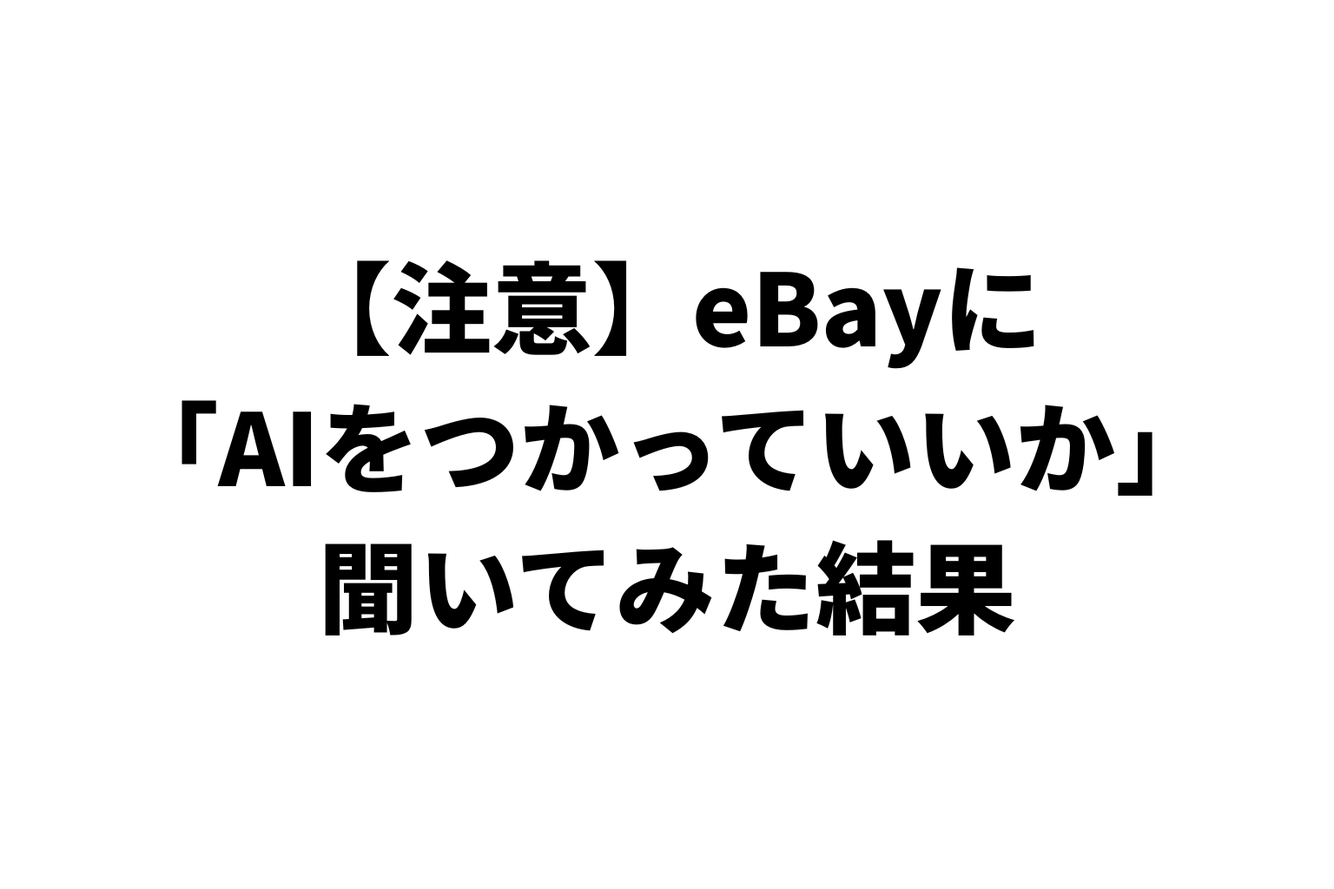
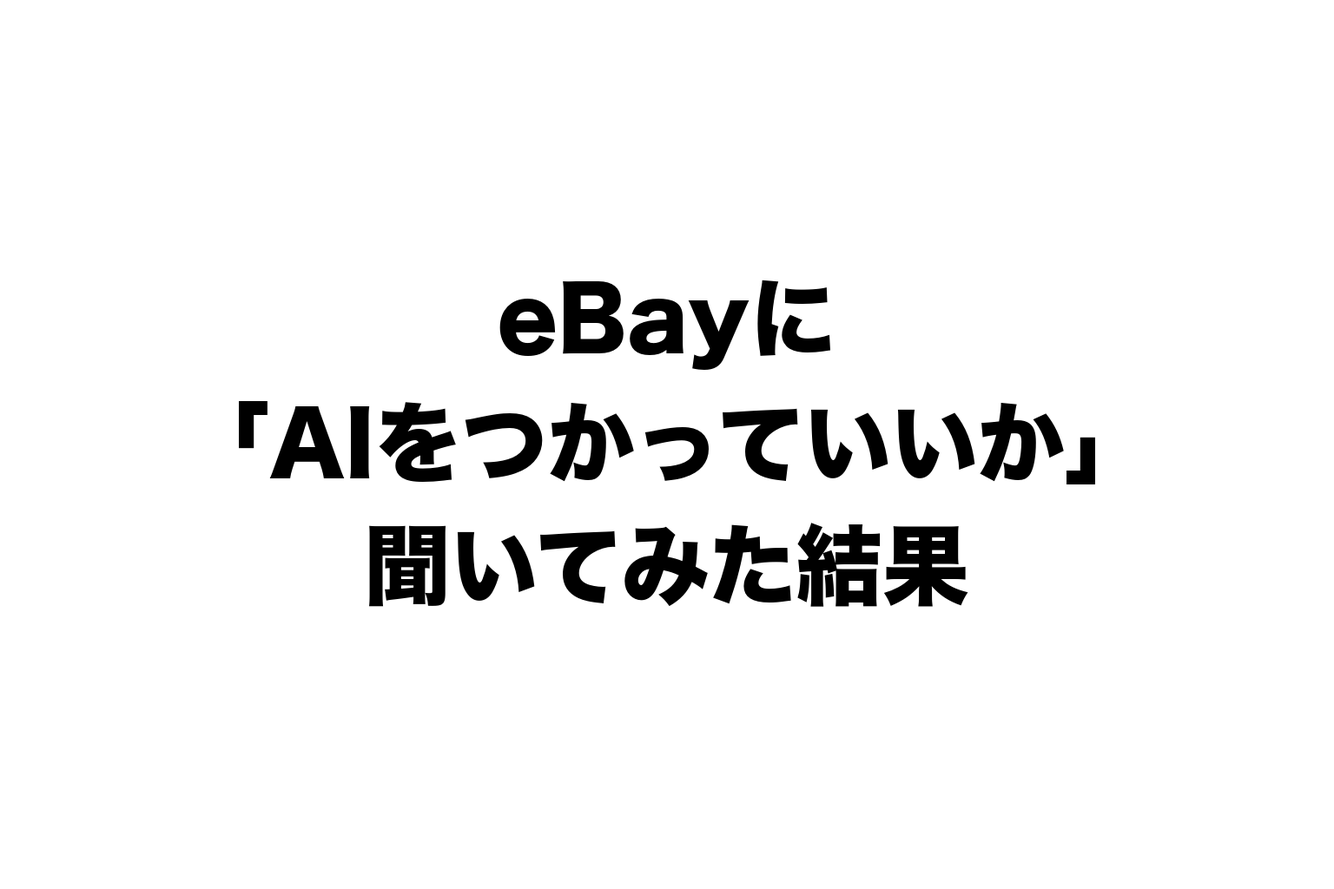
eBay AI permission article: drop 【注意】 from title and eyecatch

Changed region(s): [[0.125, 0.2812, 0.875, 0.5625], [0.2188, 0.5938, 0.7812, 0.7188]]

diff --git a/ebay/index.html b/ebay/index.html
@@ -107,7 +107,7 @@
   "hasPart": [
     {
       "@type": "Article",
-      "headline": "【注意】eBayに「AIを使っていいか」聞いてみた結果",
+      "headline": "eBayに「AIを使っていいか」聞いてみた結果",
       "url": "https://rental-space.net/articles/2026-10-08-ebay-ai-permission-answer.html",
       "datePublished": "2026-10-08"
     },
@@ -348,7 +348,7 @@
 <a href="../articles/2026-09-18-ebay-award-seller-description.html">▶ もとになった調査: eBay有力セラーの説明文を読んでみた結果</a></p></section>
                 <section id="clusters"><h2>テーマ別の入口</h2><section class="hub-cluster" id="c-start"><h3>始め方ガイド</h3><p class="hub-cluster-desc">アカウント、売るもの、リサーチ、出品、発送の5ステップ。英語は要りません。</p><div class="hub-cards"><article class="hub-card"><a href="../articles/2026-08-31-ebay-howto-beginners.html" class="hc-thumb"><img src="../assets/thumbs/2026_08_31_ebay_howto_eyecatch_20260831_640.webp" alt="eBayのやり方、初心者向けに解説" loading="lazy" width="640" height="427"></a><div class="hc-body"><time datetime="2026-08-31">2026.08.31</time><h4><a href="../articles/2026-08-31-ebay-howto-beginners.html">eBayのやり方、初心者向けに解説</a></h4><p>eBayのやり方を初心者向けに5ステップで解説。アカウント登録、商品選び、リサーチ、出品、発送の流れと、利益の考え方、AIとの分担をまとめま…</p></div></article><article class="hub-card"><a href="../articles/2026-08-30-ebay-beginner-five-tips.html" class="hc-thumb"><img src="../assets/thumbs/2026_08_30_ebay_beginner_five_eyecatch_20260830_640.webp" alt="はじめてeBay輸出をやりたい人に伝えたい5つのこと" loading="lazy" width="640" height="427"></a><div class="hc-body"><time datetime="2026-08-30">2026.08.30</time><h4><a href="../articles/2026-08-30-ebay-beginner-five-tips.html">はじめてeBay輸出をやりたい人に伝えたい5つのこと</a></h4><p>はじめてeBay輸出をやりたい兄弟へ、本気で伝える5つ。コンサルよりAI、作業の分担、小さなプラス、利益を守る梱包を、実体験からまとめました…</p></div></article><article class="hub-card"><a href="../articles/2026-08-27-ebay-english-no-problem.html" class="hc-thumb"><img src="../assets/thumbs/2026_08_27_ebay_english_eyecatch_5x2_20260827_640.webp" alt="英語ができないから、eBay輸出をあきらめていませんか" loading="lazy" width="640" height="427"></a><div class="hc-body"><time datetime="2026-08-27">2026.08.27</time><h4><a href="../articles/2026-08-27-ebay-english-no-problem.html">英語ができないから、eBay輸出をあきらめていませんか</a></h4><p>英語ができなくてもeBay輸出はできます。翻訳ボタン、文字ベースの顧客対応、AI社員の活用で英語の壁が消える理由を実例で解説します。</p></div></article></div><p class="hub-cluster-more"><a href="#all-start">このテーマの全7本を見る ↓</a></p></section><section class="hub-cluster" id="c-dropship"><h3>無在庫の仕組みとリスク</h3><p class="hub-cluster-desc">無在庫の仕組みと、在庫切れ・赤字・アカウント停止のリスクへの備え。</p><div class="hub-cards"><article class="hub-card"><a href="../articles/2026-08-15-ebay-ai-fullstack.html" class="hc-thumb"><img src="../assets/thumbs/2026_08_15_e1_640.webp" alt="梱包発送以外、ぜんぶAI。eBay無在庫販売の中身を全部話します" loading="lazy" width="640" height="427"></a><div class="hc-body"><time datetime="2026-08-15">2026.08.15</time><h4><a href="../articles/2026-08-15-ebay-ai-fullstack.html">梱包発送以外、ぜんぶAI。eBay無在庫販売の中身を全部話します</a></h4><p>ぼくはいま、eBayの無在庫販売を「梱包発送以外はぜんぶAI」でやっています。 リサーチも、出品も、値付けも、在庫管理も、顧客対応の下書きも…</p></div></article><article class="hub-card"><a href="../articles/2026-09-05-ebay-out-of-stock-button.html" class="hc-thumb"><img src="../assets/thumbs/2026_09_05_out_of_stock_eyecatch_20260905_640.webp" alt="「Out of stock」を押してはいけない" loading="lazy" width="640" height="427"></a><div class="hc-body"><time datetime="2026-09-05">2026.09.05</time><h4><a href="../articles/2026-09-05-ebay-out-of-stock-button.html">「Out of stock」を押してはいけない</a></h4><p>無在庫eBayで仕入元が在庫切れになり注文をキャンセルされたときの対応手順。代わりの品をさがす、買い手に二択を出す、買い手発のキャンセル依頼…</p></div></article><article class="hub-card"><a href="../articles/2026-08-17-ebay-ai-mistakes.html" class="hc-thumb"><img src="../assets/thumbs/2026_08_17_e1_640.webp" alt="AI任せのeBay無在庫で、3万円をドブに捨てた話" loading="lazy" width="640" height="427"></a><div class="hc-body"><time datetime="2026-08-17">2026.08.17</time><h4><a href="../articles/2026-08-17-ebay-ai-mistakes.html">AI任せのeBay無在庫で、3万円をドブに捨てた話</a></h4><p>7月、ぼくは3万円をドブに捨てました。 eBayの無在庫販売を「梱包発送以外ぜんぶAI」で始めて1ヶ月半。
                 …</p></div></article></div><p class="hub-cluster-more"><a href="#all-dropship">このテーマの全4本を見る ↓</a></p></section></section>
-                <section id="all"><h2>全記事一覧(58本・新しい順)</h2><div class="hub-list" id="all-side"><h3>eBay副業(ハブ本文・AI運用の実録)(47本)</h3><ul><li><time>2026.10.08</time> <a href="../articles/2026-10-08-ebay-ai-permission-answer.html">【注意】eBayに「AIを使っていいか」聞いてみた結果</a></li><li><time>2026.10.07</time> <a href="../articles/2026-10-07-ebay-ad-rate-ab-test-ai.html">【プロンプト付き】eBayの広告費、AIのA/Bテストで決めた</a></li><li><time>2026.10.06</time> <a href="../articles/2026-10-06-ebay-customer-service-ai-prompt.html">【プロンプト付き】eBayの返信をAIに任せる5ステップ</a></li><li><time>2026.10.05</time> <a href="../articles/2026-10-05-ebay-september-work-time-profit.html">eBay、9月の作業時間は45分。最終利益15.9万円</a></li><li><time>2026.10.04</time> <a href="../articles/2026-10-04-ebay-third-month-results.html">eBay3ヶ月目　最終利益15.9万円</a></li><li><time>2026.10.03</time> <a href="../articles/2026-10-03-ebay-ai-enemy-or-ally.html">AIを敵にするか、味方にするか</a></li><li><time>2026.10.02</time> <a href="../articles/2026-10-02-ebay-eu-pid-required.html">11月からEU宛ては型番必須。うちは848件が空でした</a></li><li><time>2026.10.01</time> <a href="../articles/2026-10-01-ebay-kyokasho-second-edition.html">eBay教科書を第2版に。自動化の11章を足しました</a></li><li><time>2026.10.01</time> <a href="../articles/2026-10-01-ebay-eu-ddp-day-fixes.html">EU向けDDP、当日に直した4か所</a></li><li><time>2026.09.30</time> <a href="../articles/2026-09-30-ebay-ai-api-explained.html">小学生でもわかる、eBayとAIとAPI</a></li><li><time>2026.09.29</time> <a href="../articles/2026-09-29-ebay-api-three-tasks.html">eBay APIで3つ自動化してみよう【プロンプト付き】</a></li><li><time>2026.09.28</time> <a href="../articles/2026-09-28-ebay-api-complete-guide.html">【eBay輸出】APIでできること、ぜんぶ紹介</a></li><li><time>2026.09.27</time> <a href="../articles/2026-09-27-ebay-rental-space-best-combo.html">eBayと○○は、最強の組み合わせ</a></li><li><time>2026.09.25</time> <a href="../articles/2026-09-25-ebay-packing-app-efficiency.html">【eBay輸出】梱包発送もAIで効率化できる</a></li><li><time>2026.09.23</time> <a href="../articles/2026-09-23-ebay-my-two-jobs.html">eBay輸出、ぼくの仕事は2つだけ</a></li><li><time>2026.09.23</time> <a href="../articles/2026-09-23-ebay-external-views-double.html">eBayの外からのアクセスが2倍になった理由</a></li><li><time>2026.09.22</time> <a href="../articles/2026-09-22-ebay-award-seller-shop-fixes.html">eBay受賞セラーを調べて、自分の店を直してみた結果</a></li><li><time>2026.09.21</time> <a href="../articles/2026-09-21-ebay-customer-service-automation.html">eBay お客さん対応を完全自動化してみた結果</a></li><li><time>2026.09.20</time> <a href="../articles/2026-09-20-ebay-award-seller-summary.html">eBay有力セラーを7回調べてみた結果【まとめ】</a></li><li><time>2026.09.19</time> <a href="../articles/2026-09-19-ebay-award-seller-sales-profit.html">eBay受賞セラー どれだけ稼いでいるか調べてみた結果</a></li><li><time>2026.09.18</time> <a href="../articles/2026-09-18-ebay-award-seller-title.html">eBay有力セラーのタイトルを読んでみた結果</a></li><li><time>2026.09.18</time> <a href="../articles/2026-09-18-ebay-award-seller-description.html">eBay有力セラーの説明文を読んでみた結果</a></li><li><time>2026.09.17</time> <a href="../articles/2026-09-17-ebay-award-seller-product-page.html">eBay有力セラーの商品ページを調べてみた結果</a></li><li><time>2026.09.16</time> <a href="../articles/2026-09-16-ebay-award-seller-listing-count-price.html">eBay有力セラーの出品数と価格を調べてみた結果</a></li><li><time>2026.09.15</time> <a href="../articles/2026-09-15-ebay-news-site-launch.html">【無料】eBayニュースサイトをリリース！経済・マーケ・AIも学べる</a></li><li><time>2026.09.14</time> <a href="../articles/2026-09-14-ebay-award-seller-shipping.html">eBay有力セラーの発送を調べてみた結果（配送方法・日数）</a></li><li><time>2026.09.13</time> <a href="../articles/2026-09-13-ebay-at-43-full-ai-results.html">43歳のおっさんが、フルAIでeBay輸出をやってみた結果</a></li><li><time>2026.09.12</time> <a href="../articles/2026-09-12-ebaymag-full-use.html">eBay magをフル活用してみた結果</a></li><li><time>2026.09.11</time> <a href="../articles/2026-09-11-ebay-award-seller-return-shipping.html">eBay有力セラーのビジネスポリシーを調べてみた結果（返品・配送除外国）</a></li><li><time>2026.09.10</time> <a href="../articles/2026-09-10-ebay-stock-inventory.html">有在庫、はじめました。</a></li><li><time>2026.09.09</time> <a href="../articles/2026-09-09-ebay-ai-message-triage.html">【ebay】AI 顧客対応ツールで労力激減</a></li><li><time>2026.09.08</time> <a href="../articles/2026-09-08-ebay-ai-supplier-discovery.html">【eBay】仕入先の開拓 〜その仕入れ先、ライバルも使っていませんか?〜</a></li><li><time>2026.09.07</time> <a href="../articles/2026-09-07-ebay-side-hustle-reasons.html">eBayが副業におすすめな理由 4つ</a></li><li><time>2026.09.06</time> <a href="../articles/2026-09-06-ebay-september-profit-goal.html">9月は最終利益30万円。棚の7割を入れ替えます</a></li><li><time>2026.09.05</time> <a href="../articles/2026-09-05-ebay-one-star-review.html">教材に「詐欺」★1レビューが付きました</a></li><li><time>2026.09.04</time> <a href="../articles/2026-09-04-ebay-manual-work-ai.html">そのeBay作業、まだ人力でやってるの?</a></li><li><time>2026.09.02</time> <a href="../articles/2026-09-02-ebay-august-results.html">8月の利益は13万円でした。目標30万に、届きませんでした</a></li><li><time>2026.09.01</time> <a href="../articles/2026-09-01-eu-ddp-mandatory.html">【速報】eBayがEU向けDDP必須化。アメリカで一度見た景色です</a></li><li><time>2026.09.01</time> <a href="../articles/2026-09-01-ebay-listing-ai-work.html">イーベイの出品は、もう人間がやる作業ではありません</a></li><li><time>2026.08.29</time> <a href="../articles/2026-08-29-ebay-research-dragnet.html">【eBay】リサーチをやめました</a></li><li><time>2026.08.26</time> <a href="../articles/2026-08-26-ai-subscription-profit.html">AIに課金して、いくら稼ぎましたか?</a></li><li><time>2026.08.24</time> <a href="../articles/2026-08-24-ebay-partner-rental-space.html">eBayはやった分だけ伸びる。それが強みで、弱点でもある</a></li><li><time>2026.08.23</time> <a href="../articles/2026-08-23-ebay-ai-first-month-profit.html">【eBay無在庫】すべてAIで1ヶ月目から利益10万出た話</a></li><li><time>2026.08.21</time> <a href="../articles/2026-08-21-ebay-all-ai-claude-code.html">コンサルに100万円払うなら、Claude Codeを2アカウント契約してください</a></li><li><time>2026.08.19</time> <a href="../articles/2026-08-19-ebay-lawsuit.html">米国連邦裁判所から訴えられました</a></li><li><time>2026.08.18</time> <a href="../articles/2026-08-18-ebay-previous-failure.html">月200万まで行って、ぼくはeBayをやめました</a></li><li><time>2026.08.16</time> <a href="../articles/2026-08-16-ebay-packing-app.html">唯一の人間の仕事「梱包発送」も、AIが作ったアプリで回しています</a></li></ul></div><div class="hub-list" id="all-start"><h3>始め方ガイド(7本)</h3><ul><li><time>2026.09.24</time> <a href="../articles/2026-09-24-ebay-ai-eight-steps.html">【eBay輸出】梱包以外ぜんぶAIでやる方法（8ステップで解説）</a></li><li><time>2026.09.03</time> <a href="../articles/2026-09-03-ebay-kobutsu-ledger.html">eBay 古物台帳ちゃんとやってる？</a></li><li><time>2026.08.31</time> <a href="../articles/2026-08-31-ebay-howto-beginners.html">eBayのやり方、初心者向けに解説</a></li><li><time>2026.08.30</time> <a href="../articles/2026-08-30-ebay-beginner-five-tips.html">はじめてeBay輸出をやりたい人に伝えたい5つのこと</a></li><li><time>2026.08.27</time> <a href="../articles/2026-08-27-ebay-english-no-problem.html">英語ができないから、eBay輸出をあきらめていませんか</a></li><li><time>2026.08.24</time> <a href="../articles/2026-08-24-ebay-suspicious.html">eBayって、なんか怪しくない？</a></li><li><time>2026.08.18</time> <a href="../articles/2026-08-18-ebay-consultant-unnecessary.html">ぼくは昔、eBayのコンサルに入っていました。いまは要らないと思っています</a></li></ul></div><div class="hub-list" id="all-dropship"><h3>無在庫の仕組みとリスク(4本)</h3><ul><li><time>2026.09.05</time> <a href="../articles/2026-09-05-ebay-out-of-stock-button.html">「Out of stock」を押してはいけない</a></li><li><time>2026.08.22</time> <a href="../articles/2026-08-22-ebay-inventory-tool-ai.html">まだ月3万円も在庫管理ツールに払ってるの？</a></li><li><time>2026.08.17</time> <a href="../articles/2026-08-17-ebay-ai-mistakes.html">AI任せのeBay無在庫で、3万円をドブに捨てた話</a></li><li><time>2026.08.15</time> <a href="../articles/2026-08-15-ebay-ai-fullstack.html">梱包発送以外、ぜんぶAI。eBay無在庫販売の中身を全部話します</a></li></ul></div></section>
+                <section id="all"><h2>全記事一覧(58本・新しい順)</h2><div class="hub-list" id="all-side"><h3>eBay副業(ハブ本文・AI運用の実録)(47本)</h3><ul><li><time>2026.10.08</time> <a href="../articles/2026-10-08-ebay-ai-permission-answer.html">eBayに「AIを使っていいか」聞いてみた結果</a></li><li><time>2026.10.07</time> <a href="../articles/2026-10-07-ebay-ad-rate-ab-test-ai.html">【プロンプト付き】eBayの広告費、AIのA/Bテストで決めた</a></li><li><time>2026.10.06</time> <a href="../articles/2026-10-06-ebay-customer-service-ai-prompt.html">【プロンプト付き】eBayの返信をAIに任せる5ステップ</a></li><li><time>2026.10.05</time> <a href="../articles/2026-10-05-ebay-september-work-time-profit.html">eBay、9月の作業時間は45分。最終利益15.9万円</a></li><li><time>2026.10.04</time> <a href="../articles/2026-10-04-ebay-third-month-results.html">eBay3ヶ月目　最終利益15.9万円</a></li><li><time>2026.10.03</time> <a href="../articles/2026-10-03-ebay-ai-enemy-or-ally.html">AIを敵にするか、味方にするか</a></li><li><time>2026.10.02</time> <a href="../articles/2026-10-02-ebay-eu-pid-required.html">11月からEU宛ては型番必須。うちは848件が空でした</a></li><li><time>2026.10.01</time> <a href="../articles/2026-10-01-ebay-kyokasho-second-edition.html">eBay教科書を第2版に。自動化の11章を足しました</a></li><li><time>2026.10.01</time> <a href="../articles/2026-10-01-ebay-eu-ddp-day-fixes.html">EU向けDDP、当日に直した4か所</a></li><li><time>2026.09.30</time> <a href="../articles/2026-09-30-ebay-ai-api-explained.html">小学生でもわかる、eBayとAIとAPI</a></li><li><time>2026.09.29</time> <a href="../articles/2026-09-29-ebay-api-three-tasks.html">eBay APIで3つ自動化してみよう【プロンプト付き】</a></li><li><time>2026.09.28</time> <a href="../articles/2026-09-28-ebay-api-complete-guide.html">【eBay輸出】APIでできること、ぜんぶ紹介</a></li><li><time>2026.09.27</time> <a href="../articles/2026-09-27-ebay-rental-space-best-combo.html">eBayと○○は、最強の組み合わせ</a></li><li><time>2026.09.25</time> <a href="../articles/2026-09-25-ebay-packing-app-efficiency.html">【eBay輸出】梱包発送もAIで効率化できる</a></li><li><time>2026.09.23</time> <a href="../articles/2026-09-23-ebay-my-two-jobs.html">eBay輸出、ぼくの仕事は2つだけ</a></li><li><time>2026.09.23</time> <a href="../articles/2026-09-23-ebay-external-views-double.html">eBayの外からのアクセスが2倍になった理由</a></li><li><time>2026.09.22</time> <a href="../articles/2026-09-22-ebay-award-seller-shop-fixes.html">eBay受賞セラーを調べて、自分の店を直してみた結果</a></li><li><time>2026.09.21</time> <a href="../articles/2026-09-21-ebay-customer-service-automation.html">eBay お客さん対応を完全自動化してみた結果</a></li><li><time>2026.09.20</time> <a href="../articles/2026-09-20-ebay-award-seller-summary.html">eBay有力セラーを7回調べてみた結果【まとめ】</a></li><li><time>2026.09.19</time> <a href="../articles/2026-09-19-ebay-award-seller-sales-profit.html">eBay受賞セラー どれだけ稼いでいるか調べてみた結果</a></li><li><time>2026.09.18</time> <a href="../articles/2026-09-18-ebay-award-seller-title.html">eBay有力セラーのタイトルを読んでみた結果</a></li><li><time>2026.09.18</time> <a href="../articles/2026-09-18-ebay-award-seller-description.html">eBay有力セラーの説明文を読んでみた結果</a></li><li><time>2026.09.17</time> <a href="../articles/2026-09-17-ebay-award-seller-product-page.html">eBay有力セラーの商品ページを調べてみた結果</a></li><li><time>2026.09.16</time> <a href="../articles/2026-09-16-ebay-award-seller-listing-count-price.html">eBay有力セラーの出品数と価格を調べてみた結果</a></li><li><time>2026.09.15</time> <a href="../articles/2026-09-15-ebay-news-site-launch.html">【無料】eBayニュースサイトをリリース！経済・マーケ・AIも学べる</a></li><li><time>2026.09.14</time> <a href="../articles/2026-09-14-ebay-award-seller-shipping.html">eBay有力セラーの発送を調べてみた結果（配送方法・日数）</a></li><li><time>2026.09.13</time> <a href="../articles/2026-09-13-ebay-at-43-full-ai-results.html">43歳のおっさんが、フルAIでeBay輸出をやってみた結果</a></li><li><time>2026.09.12</time> <a href="../articles/2026-09-12-ebaymag-full-use.html">eBay magをフル活用してみた結果</a></li><li><time>2026.09.11</time> <a href="../articles/2026-09-11-ebay-award-seller-return-shipping.html">eBay有力セラーのビジネスポリシーを調べてみた結果（返品・配送除外国）</a></li><li><time>2026.09.10</time> <a href="../articles/2026-09-10-ebay-stock-inventory.html">有在庫、はじめました。</a></li><li><time>2026.09.09</time> <a href="../articles/2026-09-09-ebay-ai-message-triage.html">【ebay】AI 顧客対応ツールで労力激減</a></li><li><time>2026.09.08</time> <a href="../articles/2026-09-08-ebay-ai-supplier-discovery.html">【eBay】仕入先の開拓 〜その仕入れ先、ライバルも使っていませんか?〜</a></li><li><time>2026.09.07</time> <a href="../articles/2026-09-07-ebay-side-hustle-reasons.html">eBayが副業におすすめな理由 4つ</a></li><li><time>2026.09.06</time> <a href="../articles/2026-09-06-ebay-september-profit-goal.html">9月は最終利益30万円。棚の7割を入れ替えます</a></li><li><time>2026.09.05</time> <a href="../articles/2026-09-05-ebay-one-star-review.html">教材に「詐欺」★1レビューが付きました</a></li><li><time>2026.09.04</time> <a href="../articles/2026-09-04-ebay-manual-work-ai.html">そのeBay作業、まだ人力でやってるの?</a></li><li><time>2026.09.02</time> <a href="../articles/2026-09-02-ebay-august-results.html">8月の利益は13万円でした。目標30万に、届きませんでした</a></li><li><time>2026.09.01</time> <a href="../articles/2026-09-01-eu-ddp-mandatory.html">【速報】eBayがEU向けDDP必須化。アメリカで一度見た景色です</a></li><li><time>2026.09.01</time> <a href="../articles/2026-09-01-ebay-listing-ai-work.html">イーベイの出品は、もう人間がやる作業ではありません</a></li><li><time>2026.08.29</time> <a href="../articles/2026-08-29-ebay-research-dragnet.html">【eBay】リサーチをやめました</a></li><li><time>2026.08.26</time> <a href="../articles/2026-08-26-ai-subscription-profit.html">AIに課金して、いくら稼ぎましたか?</a></li><li><time>2026.08.24</time> <a href="../articles/2026-08-24-ebay-partner-rental-space.html">eBayはやった分だけ伸びる。それが強みで、弱点でもある</a></li><li><time>2026.08.23</time> <a href="../articles/2026-08-23-ebay-ai-first-month-profit.html">【eBay無在庫】すべてAIで1ヶ月目から利益10万出た話</a></li><li><time>2026.08.21</time> <a href="../articles/2026-08-21-ebay-all-ai-claude-code.html">コンサルに100万円払うなら、Claude Codeを2アカウント契約してください</a></li><li><time>2026.08.19</time> <a href="../articles/2026-08-19-ebay-lawsuit.html">米国連邦裁判所から訴えられました</a></li><li><time>2026.08.18</time> <a href="../articles/2026-08-18-ebay-previous-failure.html">月200万まで行って、ぼくはeBayをやめました</a></li><li><time>2026.08.16</time> <a href="../articles/2026-08-16-ebay-packing-app.html">唯一の人間の仕事「梱包発送」も、AIが作ったアプリで回しています</a></li></ul></div><div class="hub-list" id="all-start"><h3>始め方ガイド(7本)</h3><ul><li><time>2026.09.24</time> <a href="../articles/2026-09-24-ebay-ai-eight-steps.html">【eBay輸出】梱包以外ぜんぶAIでやる方法（8ステップで解説）</a></li><li><time>2026.09.03</time> <a href="../articles/2026-09-03-ebay-kobutsu-ledger.html">eBay 古物台帳ちゃんとやってる？</a></li><li><time>2026.08.31</time> <a href="../articles/2026-08-31-ebay-howto-beginners.html">eBayのやり方、初心者向けに解説</a></li><li><time>2026.08.30</time> <a href="../articles/2026-08-30-ebay-beginner-five-tips.html">はじめてeBay輸出をやりたい人に伝えたい5つのこと</a></li><li><time>2026.08.27</time> <a href="../articles/2026-08-27-ebay-english-no-problem.html">英語ができないから、eBay輸出をあきらめていませんか</a></li><li><time>2026.08.24</time> <a href="../articles/2026-08-24-ebay-suspicious.html">eBayって、なんか怪しくない？</a></li><li><time>2026.08.18</time> <a href="../articles/2026-08-18-ebay-consultant-unnecessary.html">ぼくは昔、eBayのコンサルに入っていました。いまは要らないと思っています</a></li></ul></div><div class="hub-list" id="all-dropship"><h3>無在庫の仕組みとリスク(4本)</h3><ul><li><time>2026.09.05</time> <a href="../articles/2026-09-05-ebay-out-of-stock-button.html">「Out of stock」を押してはいけない</a></li><li><time>2026.08.22</time> <a href="../articles/2026-08-22-ebay-inventory-tool-ai.html">まだ月3万円も在庫管理ツールに払ってるの？</a></li><li><time>2026.08.17</time> <a href="../articles/2026-08-17-ebay-ai-mistakes.html">AI任せのeBay無在庫で、3万円をドブに捨てた話</a></li><li><time>2026.08.15</time> <a href="../articles/2026-08-15-ebay-ai-fullstack.html">梱包発送以外、ぜんぶAI。eBay無在庫販売の中身を全部話します</a></li></ul></div></section>
                 <section id="faq" class="hub-faq"><h2>よくある質問</h2><details><summary>eBay副業は、今からでも稼げますか?</summary><p>稼げますが、伸び方は「やった分だけ」です。ぼくの店は初月10万円、2ヶ月目13万円。楽ではありませんが、リサーチと出品をAIに渡すと、副業の時間でも回ります。毎月の結果は<a href="../articles/2026-09-02-ebay-august-results.html">月次の記事</a>で公開しています。</p></details>
 <details><summary>英語ができなくても大丈夫ですか?</summary><p>大丈夫です。出品文もお客さんとのやりとりもAIが書きます。ぼくも英語は得意ではありません。くわしくは<a href="../articles/2026-08-27-ebay-english-no-problem.html">英語の記事</a>へ。</p></details>
 <details><summary>無在庫って、怪しくないですか?</summary><p>仕組み自体は「売れてから仕入れる」だけで、怪しいものではありません。ただし在庫切れ・赤字・アカウント停止のリスクはあります。ぼくが3万円をムダにした失敗と、在庫切れのときの正しい手順を<a href="../articles/2026-09-05-ebay-out-of-stock-button.html">記事</a>に書きました。</p></details>

diff --git a/index.html b/index.html
@@ -211,7 +211,7 @@
                     </div>
                     <div class="post-list-container active" id="posts-latest">
 <article class="post-card"><a href="articles/2026-10-08-rental-space-phone-ai-zero-transfer.html" class="post-thumb"><img src="assets/home-optimized/2026_10_08_rental_phone_ai_hero-06712661e31c-640.webp" alt="まだレンスペの電話対応で消耗してるの？（AI電話）" class="post-thumb-img" loading="lazy" decoding="async" data-original-src="assets/2026_10_08_rental_phone_ai_hero.png" width="640" height="427"><span class="category-badge">副業① レンタルスペース</span></a><div class="post-info"><h2><a href="articles/2026-10-08-rental-space-phone-ai-zero-transfer.html">まだレンスペの電話対応で消耗してるの？（AI電話）</a></h2><time datetime="2026-10-08">2026.10.08</time><p>レンタルスペース12部屋の電話を、AIの自動応答に任せました。質問と答えは365件、2週間で18件の電話、人への転送は0件。5つのステップと、そのまま使える質問と答えのひな形(7つのカテゴリ)を紹介します。</p></div></article>
-<article class="post-card"><a href="articles/2026-10-08-ebay-ai-permission-answer.html" class="post-thumb"><img src="assets/home-optimized/2026_10_08_ebay_ai_answer_hero-e5c6a55751b4-640.webp" alt="【注意】eBayに「AIを使っていいか」聞いてみた結果" class="post-thumb-img" loading="lazy" decoding="async" data-original-src="assets/2026_10_08_ebay_ai_answer_hero.png" width="640" height="427"><span class="category-badge">副業② eBay輸出</span></a><div class="post-info"><h2><a href="articles/2026-10-08-ebay-ai-permission-answer.html">【注意】eBayに「AIを使っていいか」聞いてみた結果</a></h2><time datetime="2026-10-08">2026.10.08</time><p>eBay Japanに「AIを使っていいか」を問い合わせて、書面で答えをもらいました。見られていたのはAIかどうかではなく、アクセスのしかた・データの使い方・AIに渡す情報の3つ。うちの店で直したことと、OK/NGチェックリスト7つを紹介します。</p></div></article>
+<article class="post-card"><a href="articles/2026-10-08-ebay-ai-permission-answer.html" class="post-thumb"><img src="assets/home-optimized/2026_10_08_ebay_ai_answer_hero-e5c6a55751b4-640.webp" alt="eBayに「AIを使っていいか」聞いてみた結果" class="post-thumb-img" loading="lazy" decoding="async" data-original-src="assets/2026_10_08_ebay_ai_answer_hero.png" width="640" height="427"><span class="category-badge">副業② eBay輸出</span></a><div class="post-info"><h2><a href="articles/2026-10-08-ebay-ai-permission-answer.html">eBayに「AIを使っていいか」聞いてみた結果</a></h2><time datetime="2026-10-08">2026.10.08</time><p>eBay Japanに「AIを使っていいか」を問い合わせて、書面で答えをもらいました。見られていたのはAIかどうかではなく、アクセスのしかた・データの使い方・AIに渡す情報の3つ。うちの店で直したことと、OK/NGチェックリスト7つを紹介します。</p></div></article>
 <article class="post-card"><a href="articles/2026-10-07-ebay-ad-rate-ab-test-ai.html" class="post-thumb"><img src="assets/home-optimized/2026_10_07_ebay_ab_hero-e1fce0b46150-640.webp" alt="【プロンプト付き】eBayの広告費、AIのA/Bテストで決めた" class="post-thumb-img" width="640" height="256" loading="lazy" decoding="async" data-original-src="assets/2026_10_07_ebay_ab_hero.png"><span class="category-badge">副業② eBay輸出</span></a><div class="post-info"><h2><a href="articles/2026-10-07-ebay-ad-rate-ab-test-ai.html">【プロンプト付き】eBayの広告費、AIのA/Bテストで決めた</a></h2><time datetime="2026-10-07">2026.10.07</time><p>eBayの広告率を5%から2.2%に下げたら、表示が21%減少。AIに広告4%と2.2%のA/Bテストを任せ、2週間比べた結果と、その後の判断ミスを公開します。同じテストをAIに頼める5ステップとプロンプト付き。</p></div></article>
 <article class="post-card"><a href="articles/2026-10-07-rental-space-ai-171-tasks.html" class="post-thumb"><img src="assets/home-optimized/2026_10_07_rental_ai171_hero-0c4157f3d405-640.webp" alt="AIに任せているレンスペの仕事、数えたら171件ありました" class="post-thumb-img" width="640" height="427" loading="lazy" decoding="async" data-original-src="assets/2026_10_07_rental_ai171_hero.png"><span class="category-badge">副業① レンタルスペース</span></a><div class="post-info"><h2><a href="articles/2026-10-07-rental-space-ai-171-tasks.html">AIに任せているレンスペの仕事、数えたら171件ありました</a></h2><time datetime="2026-10-07">2026.10.07</time><p>AIに任せている仕事を書き出したら171件。お店の運営だけで56件ありました。7つの型、任せ方の3段階、ルール5つと、自分の仕事を書き出すプロンプトを紹介します。</p></div></article>
 <article class="post-card"><a href="articles/2026-10-06-note-account-switcher.html" class="post-thumb"><img src="assets/home-optimized/2026_10_06_note_switcher_hero_v2-d8681c099244-640.webp" alt="【PCのnote複アカ専用】ログアウトせずに、ワンクリックでアカウント切替" class="post-thumb-img" width="640" height="427" loading="lazy" decoding="async" data-original-src="assets/2026_10_06_note_switcher_hero_v2.png"><span class="category-badge">副業③ AI活用実験室</span></a><div class="post-info"><h2><a href="articles/2026-10-06-note-account-switcher.html">【PCのnote複アカ専用】ログアウトせずに、ワンクリックでアカウント切替</a></h2><time datetime="2026-10-06">2026.10.06</time><p>PCのnoteで、アカウントを切り替えるたびにログアウトとパスワード入力をしていませんか。画面右下の箱から、ログアウトせずにワンクリックで切り替えられるChrome拡張を作りました。アカウントはいくつでも保存でき、パスワードは保存しません。価格は100円です。</p></div></article>
@@ -2312,7 +2312,7 @@
                     </div>
 
                     <div class="post-list-container" id="posts-ebay">
-<article class="post-card"><a href="articles/2026-10-08-ebay-ai-permission-answer.html" class="post-thumb"><img src="assets/home-optimized/2026_10_08_ebay_ai_answer_hero-e5c6a55751b4-640.webp" alt="【注意】eBayに「AIを使っていいか」聞いてみた結果" class="post-thumb-img" loading="lazy" decoding="async" data-original-src="assets/2026_10_08_ebay_ai_answer_hero.png" width="640" height="427"><span class="category-badge">副業② eBay輸出</span></a><div class="post-info"><h2><a href="articles/2026-10-08-ebay-ai-permission-answer.html">【注意】eBayに「AIを使っていいか」聞いてみた結果</a></h2><time datetime="2026-10-08">2026.10.08</time><p>eBay Japanに「AIを使っていいか」を問い合わせて、書面で答えをもらいました。見られていたのはAIかどうかではなく、アクセスのしかた・データの使い方・AIに渡す情報の3つ。うちの店で直したことと、OK/NGチェックリスト7つを紹介します。</p></div></article>
+<article class="post-card"><a href="articles/2026-10-08-ebay-ai-permission-answer.html" class="post-thumb"><img src="assets/home-optimized/2026_10_08_ebay_ai_answer_hero-e5c6a55751b4-640.webp" alt="eBayに「AIを使っていいか」聞いてみた結果" class="post-thumb-img" loading="lazy" decoding="async" data-original-src="assets/2026_10_08_ebay_ai_answer_hero.png" width="640" height="427"><span class="category-badge">副業② eBay輸出</span></a><div class="post-info"><h2><a href="articles/2026-10-08-ebay-ai-permission-answer.html">eBayに「AIを使っていいか」聞いてみた結果</a></h2><time datetime="2026-10-08">2026.10.08</time><p>eBay Japanに「AIを使っていいか」を問い合わせて、書面で答えをもらいました。見られていたのはAIかどうかではなく、アクセスのしかた・データの使い方・AIに渡す情報の3つ。うちの店で直したことと、OK/NGチェックリスト7つを紹介します。</p></div></article>
 <article class="post-card"><a href="articles/2026-10-07-ebay-ad-rate-ab-test-ai.html" class="post-thumb"><img src="assets/home-optimized/2026_10_07_ebay_ab_hero-e1fce0b46150-640.webp" alt="【プロンプト付き】eBayの広告費、AIのA/Bテストで決めた" class="post-thumb-img" width="640" height="256" loading="lazy" decoding="async" data-original-src="assets/2026_10_07_ebay_ab_hero.png"><span class="category-badge">副業② eBay輸出</span></a><div class="post-info"><h2><a href="articles/2026-10-07-ebay-ad-rate-ab-test-ai.html">【プロンプト付き】eBayの広告費、AIのA/Bテストで決めた</a></h2><time datetime="2026-10-07">2026.10.07</time><p>eBayの広告率を5%から2.2%に下げたら、表示が21%減少。AIに広告4%と2.2%のA/Bテストを任せ、2週間比べた結果と、その後の判断ミスを公開します。同じテストをAIに頼める5ステップとプロンプト付き。</p></div></article>
 <article class="post-card"><a href="articles/2026-10-06-ebay-customer-service-ai-prompt.html" class="post-thumb"><img src="assets/home-optimized/2026_10_06_ebay_cs_ai_hero-2ac7c7cc016e-640.webp" alt="【プロンプト付き】eBayの返信をAIに任せる5ステップ" class="post-thumb-img" width="640" height="427" loading="lazy" decoding="async" data-original-src="assets/2026_10_06_ebay_cs_ai_hero.png"><span class="category-badge">副業② eBay輸出</span></a><div class="post-info"><h2><a href="articles/2026-10-06-ebay-customer-service-ai-prompt.html">【プロンプト付き】eBayの返信をAIに任せる5ステップ</a></h2><time datetime="2026-10-06">2026.10.06</time><p>eBayのお客さん対応を、5つの設定でAIに任せる方法。メッセージの受け取り・AIを使わない仕分け・買い手の情報を伏せるマスク・返信案・送る前の最終チェックまで、eBay Japanに確認した範囲で動かしている設定をプロンプト付きで紹介します。</p></div></article>
 <article class="post-card"><a href="articles/2026-10-05-ebay-september-work-time-profit.html" class="post-thumb"><img src="assets/home-optimized/2026_10_05_ebay_time_hero-63a293ccfe41-640.webp" alt="eBay、9月の作業時間は45分。最終利益15.9万円" class="post-thumb-img" loading="lazy" data-original-src="assets/2026_10_05_ebay_time_hero.png" width="640" height="427" decoding="async"><span class="category-badge">副業② eBay輸出</span></a><div class="post-info"><h2><a href="articles/2026-10-05-ebay-september-work-time-profit.html">eBay、9月の作業時間は45分。最終利益15.9万円</a></h2><time datetime="2026-10-05">2026.10.05</time><p>2026年9月、eBayの作業時間は月45分。最終利益は15.9万円。AIに任せる7つの仕事と、自分で行う仕入れの認証、空いた時間の使い方を紹介します。</p></div></article>

diff --git a/articles/2026-10-08-ebay-ai-permission-answer.html b/articles/2026-10-08-ebay-ai-permission-answer.html
@@ -7,13 +7,13 @@
     <meta name="viewport" content="width=device-width, initial-scale=1.0">
     <meta name="note-hashtags" content="#eBay #eBay輸出 #AI #副業">
     <meta name="description" content="eBay Japanに「AIを使っていいか」を問い合わせて、書面で答えをもらいました。見られていたのはAIかどうかではなく、アクセスのしかた・データの使い方・AIに渡す情報の3つ。うちの店で直したことと、OK/NGチェックリスト7つを紹介します。">
-    <meta property="og:title" content="【注意】eBayに「AIを使っていいか」聞いてみた結果">
+    <meta property="og:title" content="eBayに「AIを使っていいか」聞いてみた結果">
     <meta property="og:description" content="eBay Japanに「AIを使っていいか」を問い合わせて、書面で答えをもらいました。見られていたのはAIかどうかではなく、アクセスのしかた・データの使い方・AIに渡す情報の3つ。うちの店で直したことと、OK/NGチェックリスト7つを紹介します。">
     <meta property="og:image" content="https://rental-space.net/assets/2026_10_08_ebay_ai_answer_hero.png">
     <meta property="og:url" content="https://rental-space.net/articles/2026-10-08-ebay-ai-permission-answer.html">
     <meta property="og:type" content="article">
     <meta name="twitter:card" content="summary_large_image">
-    <title>【注意】eBayに「AIを使っていいか」聞いてみた結果 - きくりんのノウハウ垂れ流し</title>
+    <title>eBayに「AIを使っていいか」聞いてみた結果 - きくりんのノウハウ垂れ流し</title>
     <link rel="icon" href="../assets/favicon.png" type="image/png">
     <link rel="shortcut icon" href="../assets/favicon.png" type="image/png">
     <link rel="apple-touch-icon" href="../apple-touch-icon.png">
@@ -50,7 +50,7 @@
     {
       "@type": "ListItem",
       "position": 3,
-      "name": "【注意】eBayに「AIを使っていいか」聞いてみた結果",
+      "name": "eBayに「AIを使っていいか」聞いてみた結果",
       "item": "https://rental-space.net/articles/2026-10-08-ebay-ai-permission-answer.html"
     }
   ]
@@ -60,7 +60,7 @@
 {
   "@context": "https://schema.org",
   "@type": "Article",
-  "headline": "【注意】eBayに「AIを使っていいか」聞いてみた結果",
+  "headline": "eBayに「AIを使っていいか」聞いてみた結果",
   "datePublished": "2026-10-08",
   "dateModified": "2026-10-08",
   "mainEntityOfPage": "https://rental-space.net/articles/2026-10-08-ebay-ai-permission-answer.html",
@@ -94,11 +94,11 @@
 
 
 <!-- breadcrumb start -->
-<nav class="breadcrumb" aria-label="パンくずリスト"><ol><li><a href="../index.html">ホーム</a></li><li><a href="../ebay/">eBay輸出</a></li><li aria-current="page">【注意】eBayに「AIを使っていいか」聞いてみた結果</li></ol></nav>
+<nav class="breadcrumb" aria-label="パンくずリスト"><ol><li><a href="../index.html">ホーム</a></li><li><a href="../ebay/">eBay輸出</a></li><li aria-current="page">eBayに「AIを使っていいか」聞いてみた結果</li></ol></nav>
 <!-- breadcrumb end -->
-<header class="article-header"><span class="category-badge">副業② eBay輸出</span><h1>【注意】eBayに「AIを使っていいか」聞いてみた結果</h1><time datetime="2026-10-08">2026.10.08</time></header>
+<header class="article-header"><span class="category-badge">副業② eBay輸出</span><h1>eBayに「AIを使っていいか」聞いてみた結果</h1><time datetime="2026-10-08">2026.10.08</time></header>
         <div class="article-body">
-<div class="article-image"><img alt="【注意】eBayに「AIを使っていいか」聞いてみた結果" class="eyecatch-img" decoding="async" fetchpriority="high" height="1024" src="../assets/2026_10_08_ebay_ai_answer_hero.png" style="display:block;width:100%;height:auto" width="1536"/></div>
+<div class="article-image"><img alt="eBayに「AIを使っていいか」聞いてみた結果" class="eyecatch-img" decoding="async" fetchpriority="high" height="1024" src="../assets/2026_10_08_ebay_ai_answer_hero.png" style="display:block;width:100%;height:auto" width="1536"/></div>
 <p>eBayに、「AIを使っていいですか」と聞いてみました。</p>
 <p>送ったのは9月26日。<br/>
 10月1日に答えが来て、追加で聞いたことにも10月2日に答えてもらいました。</p>

diff --git a/articles/2026-09-08-ebay-ai-supplier-discovery.html b/articles/2026-09-08-ebay-ai-supplier-discovery.html
@@ -163,7 +163,7 @@
 <aside class="kyokasho-banner"><a href="/kyokasho/ebay/" class="kb-thumb"><img src="../assets/kyokasho_ebay_banner.png" alt="AI × eBay輸出の教科書 — 梱包以外、ぜんぶAI" loading="lazy" width="640" height="335"></a><div class="kb-body"><p class="kb-title">AI × eBay輸出の教科書🐹</p><p class="kb-sub">梱包発送以外ぜんぶAIに任せて、初月から利益10万円。開店から月次締めまで、実店舗の記録を全部書きました。内容・最新価格は販売ページをご確認ください。</p><div class="kb-actions"><a href="/kyokasho/ebay/" class="kb-btn">くわしく見る・買う</a></div></div></aside>
 <!-- kyokasho-banner end -->
 <!-- hub-link start -->
-<aside class="hub-link"><p class="hub-link-title">▼ このジャンルのまとめ</p><a class="hub-link-main" href="../ebay/">eBay輸出の記事まとめ(全58本・実数つき)を見る →</a><p class="hub-link-sub">同じテーマの記事</p><ul><li><a href="2026-10-08-ebay-ai-permission-answer.html">【注意】eBayに「AIを使っていいか」聞いてみた結果</a></li><li><a href="2026-10-07-ebay-ad-rate-ab-test-ai.html">【プロンプト付き】eBayの広告費、AIのA/Bテストで決めた</a></li><li><a href="2026-10-06-ebay-customer-service-ai-prompt.html">【プロンプト付き】eBayの返信をAIに任せる5ステップ</a></li></ul></aside>
+<aside class="hub-link"><p class="hub-link-title">▼ このジャンルのまとめ</p><a class="hub-link-main" href="../ebay/">eBay輸出の記事まとめ(全58本・実数つき)を見る →</a><p class="hub-link-sub">同じテーマの記事</p><ul><li><a href="2026-10-08-ebay-ai-permission-answer.html">eBayに「AIを使っていいか」聞いてみた結果</a></li><li><a href="2026-10-07-ebay-ad-rate-ab-test-ai.html">【プロンプト付き】eBayの広告費、AIのA/Bテストで決めた</a></li><li><a href="2026-10-06-ebay-customer-service-ai-prompt.html">【プロンプト付き】eBayの返信をAIに任せる5ステップ</a></li></ul></aside>
 <!-- hub-link end -->
 <!-- kyokasho-banner-rensupe start -->
 <aside class="kyokasho-banner kb-rensupe"><a href="/kyokasho/" class="kb-thumb"><img src="../assets/kyokasho_rensupe_banner_v4.png" alt="AIにできない副業を、AIで回す — レンタルスペース経営の教科書" loading="lazy" width="640" height="335"></a><div class="kb-body"><p class="kb-title">レンタルスペース経営の教科書📘</p><p class="kb-sub">AIにできない副業を、AIで回す。レンタルスペース23店舗・売上1.5億超の数字を1円も隠さず、物件探しから撤退まで全部書きました。付録15点つき。販売価格は3部売れるごとに2,000円ずつ値上がりします（上限あり）。内容・最新価格は販売ページをご確認ください。</p><div class="kb-actions"><a href="/kyokasho/" class="kb-btn kb-btn-rensupe">くわしく見る・買う</a></div></div></aside>

diff --git a/articles/2026-09-19-ebay-award-seller-sales-profit.html b/articles/2026-09-19-ebay-award-seller-sales-profit.html
@@ -272,7 +272,7 @@ eBayで「売れた商品」に絞って、1店だけ見てみてください。
 <!-- kyokasho-banner end -->
 
 <!-- hub-link start -->
-<aside class="hub-link"><p class="hub-link-title">▼ このジャンルのまとめ</p><a class="hub-link-main" href="../ebay/">eBay輸出の記事まとめ(全58本・実数つき)を見る →</a><p class="hub-link-sub">同じテーマの記事</p><ul><li><a href="2026-10-08-ebay-ai-permission-answer.html">【注意】eBayに「AIを使っていいか」聞いてみた結果</a></li><li><a href="2026-10-07-ebay-ad-rate-ab-test-ai.html">【プロンプト付き】eBayの広告費、AIのA/Bテストで決めた</a></li><li><a href="2026-10-06-ebay-customer-service-ai-prompt.html">【プロンプト付き】eBayの返信をAIに任せる5ステップ</a></li></ul></aside>
+<aside class="hub-link"><p class="hub-link-title">▼ このジャンルのまとめ</p><a class="hub-link-main" href="../ebay/">eBay輸出の記事まとめ(全58本・実数つき)を見る →</a><p class="hub-link-sub">同じテーマの記事</p><ul><li><a href="2026-10-08-ebay-ai-permission-answer.html">eBayに「AIを使っていいか」聞いてみた結果</a></li><li><a href="2026-10-07-ebay-ad-rate-ab-test-ai.html">【プロンプト付き】eBayの広告費、AIのA/Bテストで決めた</a></li><li><a href="2026-10-06-ebay-customer-service-ai-prompt.html">【プロンプト付き】eBayの返信をAIに任せる5ステップ</a></li></ul></aside>
 <!-- hub-link end -->
 <!-- kyokasho-banner-rensupe start -->
 <aside class="kyokasho-banner kb-rensupe"><a href="/kyokasho/" class="kb-thumb"><img src="../assets/kyokasho_rensupe_banner_v4.png" alt="AIにできない副業を、AIで回す — レンタルスペース経営の教科書" loading="lazy" width="640" height="335"></a><div class="kb-body"><p class="kb-title">レンタルスペース経営の教科書📘</p><p class="kb-sub">AIにできない副業を、AIで回す。レンタルスペース23店舗・売上1.5億超の数字を1円も隠さず、物件探しから撤退まで全部書きました。付録15点つき。販売価格は3部売れるごとに2,000円ずつ値上がりします（上限あり）。内容・最新価格は販売ページをご確認ください。</p><div class="kb-actions"><a href="/kyokasho/" class="kb-btn kb-btn-rensupe">くわしく見る・買う</a></div></div></aside>

diff --git a/articles/2026-09-20-ebay-award-seller-summary.html b/articles/2026-09-20-ebay-award-seller-summary.html
@@ -342,7 +342,7 @@ eBayで検索すると、商品が一覧で出てきます。<br />
 <!-- kyokasho-banner end -->
 
 <!-- hub-link start -->
-<aside class="hub-link"><p class="hub-link-title">▼ このジャンルのまとめ</p><a class="hub-link-main" href="../ebay/">eBay輸出の記事まとめ(全58本・実数つき)を見る →</a><p class="hub-link-sub">同じテーマの記事</p><ul><li><a href="2026-10-08-ebay-ai-permission-answer.html">【注意】eBayに「AIを使っていいか」聞いてみた結果</a></li><li><a href="2026-10-07-ebay-ad-rate-ab-test-ai.html">【プロンプト付き】eBayの広告費、AIのA/Bテストで決めた</a></li><li><a href="2026-10-06-ebay-customer-service-ai-prompt.html">【プロンプト付き】eBayの返信をAIに任せる5ステップ</a></li></ul></aside>
+<aside class="hub-link"><p class="hub-link-title">▼ このジャンルのまとめ</p><a class="hub-link-main" href="../ebay/">eBay輸出の記事まとめ(全58本・実数つき)を見る →</a><p class="hub-link-sub">同じテーマの記事</p><ul><li><a href="2026-10-08-ebay-ai-permission-answer.html">eBayに「AIを使っていいか」聞いてみた結果</a></li><li><a href="2026-10-07-ebay-ad-rate-ab-test-ai.html">【プロンプト付き】eBayの広告費、AIのA/Bテストで決めた</a></li><li><a href="2026-10-06-ebay-customer-service-ai-prompt.html">【プロンプト付き】eBayの返信をAIに任せる5ステップ</a></li></ul></aside>
 <!-- hub-link end -->
 <!-- kyokasho-banner-rensupe start -->
 <aside class="kyokasho-banner kb-rensupe"><a href="/kyokasho/" class="kb-thumb"><img src="../assets/kyokasho_rensupe_banner_v4.png" alt="AIにできない副業を、AIで回す — レンタルスペース経営の教科書" loading="lazy" width="640" height="335"></a><div class="kb-body"><p class="kb-title">レンタルスペース経営の教科書📘</p><p class="kb-sub">AIにできない副業を、AIで回す。レンタルスペース23店舗・売上1.5億超の数字を1円も隠さず、物件探しから撤退まで全部書きました。付録15点つき。販売価格は3部売れるごとに2,000円ずつ値上がりします（上限あり）。内容・最新価格は販売ページをご確認ください。</p><div class="kb-actions"><a href="/kyokasho/" class="kb-btn kb-btn-rensupe">くわしく見る・買う</a></div></div></aside>

diff --git a/articles/2026-09-14-ebay-award-seller-shipping.html b/articles/2026-09-14-ebay-award-seller-shipping.html
@@ -326,7 +326,7 @@ EMSとエアメールは、日本郵便の国際便です。</p>
 <!-- kyokasho-banner end -->
 
 <!-- hub-link start -->
-<aside class="hub-link"><p class="hub-link-title">▼ このジャンルのまとめ</p><a class="hub-link-main" href="../ebay/">eBay輸出の記事まとめ(全58本・実数つき)を見る →</a><p class="hub-link-sub">同じテーマの記事</p><ul><li><a href="2026-10-08-ebay-ai-permission-answer.html">【注意】eBayに「AIを使っていいか」聞いてみた結果</a></li><li><a href="2026-10-07-ebay-ad-rate-ab-test-ai.html">【プロンプト付き】eBayの広告費、AIのA/Bテストで決めた</a></li><li><a href="2026-10-06-ebay-customer-service-ai-prompt.html">【プロンプト付き】eBayの返信をAIに任せる5ステップ</a></li></ul></aside>
+<aside class="hub-link"><p class="hub-link-title">▼ このジャンルのまとめ</p><a class="hub-link-main" href="../ebay/">eBay輸出の記事まとめ(全58本・実数つき)を見る →</a><p class="hub-link-sub">同じテーマの記事</p><ul><li><a href="2026-10-08-ebay-ai-permission-answer.html">eBayに「AIを使っていいか」聞いてみた結果</a></li><li><a href="2026-10-07-ebay-ad-rate-ab-test-ai.html">【プロンプト付き】eBayの広告費、AIのA/Bテストで決めた</a></li><li><a href="2026-10-06-ebay-customer-service-ai-prompt.html">【プロンプト付き】eBayの返信をAIに任せる5ステップ</a></li></ul></aside>
 <!-- hub-link end -->
 <!-- kyokasho-banner-rensupe start -->
 <aside class="kyokasho-banner kb-rensupe"><a href="/kyokasho/" class="kb-thumb"><img src="../assets/kyokasho_rensupe_banner_v4.png" alt="AIにできない副業を、AIで回す — レンタルスペース経営の教科書" loading="lazy" width="640" height="335"></a><div class="kb-body"><p class="kb-title">レンタルスペース経営の教科書📘</p><p class="kb-sub">AIにできない副業を、AIで回す。レンタルスペース23店舗・売上1.5億超の数字を1円も隠さず、物件探しから撤退まで全部書きました。付録15点つき。販売価格は3部売れるごとに2,000円ずつ値上がりします（上限あり）。内容・最新価格は販売ページをご確認ください。</p><div class="kb-actions"><a href="/kyokasho/" class="kb-btn kb-btn-rensupe">くわしく見る・買う</a></div></div></aside>

diff --git a/articles/2026-09-17-ebay-award-seller-product-page.html b/articles/2026-09-17-ebay-award-seller-product-page.html
@@ -239,7 +239,7 @@ Item specificsが5項目は、上の店の半分以下。</p>
 <!-- kyokasho-banner end -->
 
 <!-- hub-link start -->
-<aside class="hub-link"><p class="hub-link-title">▼ このジャンルのまとめ</p><a class="hub-link-main" href="../ebay/">eBay輸出の記事まとめ(全58本・実数つき)を見る →</a><p class="hub-link-sub">同じテーマの記事</p><ul><li><a href="2026-10-08-ebay-ai-permission-answer.html">【注意】eBayに「AIを使っていいか」聞いてみた結果</a></li><li><a href="2026-10-07-ebay-ad-rate-ab-test-ai.html">【プロンプト付き】eBayの広告費、AIのA/Bテストで決めた</a></li><li><a href="2026-10-06-ebay-customer-service-ai-prompt.html">【プロンプト付き】eBayの返信をAIに任せる5ステップ</a></li></ul></aside>
+<aside class="hub-link"><p class="hub-link-title">▼ このジャンルのまとめ</p><a class="hub-link-main" href="../ebay/">eBay輸出の記事まとめ(全58本・実数つき)を見る →</a><p class="hub-link-sub">同じテーマの記事</p><ul><li><a href="2026-10-08-ebay-ai-permission-answer.html">eBayに「AIを使っていいか」聞いてみた結果</a></li><li><a href="2026-10-07-ebay-ad-rate-ab-test-ai.html">【プロンプト付き】eBayの広告費、AIのA/Bテストで決めた</a></li><li><a href="2026-10-06-ebay-customer-service-ai-prompt.html">【プロンプト付き】eBayの返信をAIに任せる5ステップ</a></li></ul></aside>
 <!-- hub-link end -->
 <!-- kyokasho-banner-rensupe start -->
 <aside class="kyokasho-banner kb-rensupe"><a href="/kyokasho/" class="kb-thumb"><img src="../assets/kyokasho_rensupe_banner_v4.png" alt="AIにできない副業を、AIで回す — レンタルスペース経営の教科書" loading="lazy" width="640" height="335"></a><div class="kb-body"><p class="kb-title">レンタルスペース経営の教科書📘</p><p class="kb-sub">AIにできない副業を、AIで回す。レンタルスペース23店舗・売上1.5億超の数字を1円も隠さず、物件探しから撤退まで全部書きました。付録15点つき。販売価格は3部売れるごとに2,000円ずつ値上がりします（上限あり）。内容・最新価格は販売ページをご確認ください。</p><div class="kb-actions"><a href="/kyokasho/" class="kb-btn kb-btn-rensupe">くわしく見る・買う</a></div></div></aside>

diff --git a/articles/2026-09-13-ebay-at-43-full-ai-results.html b/articles/2026-09-13-ebay-at-43-full-ai-results.html
@@ -264,7 +264,7 @@ AIの月額は110ドル、約1万6千円。<br />
 </aside>
 <!-- kyokasho-banner end -->
 <!-- hub-link start -->
-<aside class="hub-link"><p class="hub-link-title">▼ このジャンルのまとめ</p><a class="hub-link-main" href="../ebay/">eBay輸出の記事まとめ(全58本・実数つき)を見る →</a><p class="hub-link-sub">同じテーマの記事</p><ul><li><a href="2026-10-08-ebay-ai-permission-answer.html">【注意】eBayに「AIを使っていいか」聞いてみた結果</a></li><li><a href="2026-10-07-ebay-ad-rate-ab-test-ai.html">【プロンプト付き】eBayの広告費、AIのA/Bテストで決めた</a></li><li><a href="2026-10-06-ebay-customer-service-ai-prompt.html">【プロンプト付き】eBayの返信をAIに任せる5ステップ</a></li></ul></aside>
+<aside class="hub-link"><p class="hub-link-title">▼ このジャンルのまとめ</p><a class="hub-link-main" href="../ebay/">eBay輸出の記事まとめ(全58本・実数つき)を見る →</a><p class="hub-link-sub">同じテーマの記事</p><ul><li><a href="2026-10-08-ebay-ai-permission-answer.html">eBayに「AIを使っていいか」聞いてみた結果</a></li><li><a href="2026-10-07-ebay-ad-rate-ab-test-ai.html">【プロンプト付き】eBayの広告費、AIのA/Bテストで決めた</a></li><li><a href="2026-10-06-ebay-customer-service-ai-prompt.html">【プロンプト付き】eBayの返信をAIに任せる5ステップ</a></li></ul></aside>
 <!-- hub-link end -->
 <!-- kyokasho-banner-rensupe start -->
 <aside class="kyokasho-banner kb-rensupe"><a href="/kyokasho/" class="kb-thumb"><img src="../assets/kyokasho_rensupe_banner_v4.png" alt="AIにできない副業を、AIで回す — レンタルスペース経営の教科書" loading="lazy" width="640" height="335"></a><div class="kb-body"><p class="kb-title">レンタルスペース経営の教科書📘</p><p class="kb-sub">AIにできない副業を、AIで回す。レンタルスペース23店舗・売上1.5億超の数字を1円も隠さず、物件探しから撤退まで全部書きました。付録15点つき。販売価格は3部売れるごとに2,000円ずつ値上がりします（上限あり）。内容・最新価格は販売ページをご確認ください。</p><div class="kb-actions"><a href="/kyokasho/" class="kb-btn kb-btn-rensupe">くわしく見る・買う</a></div></div></aside>
